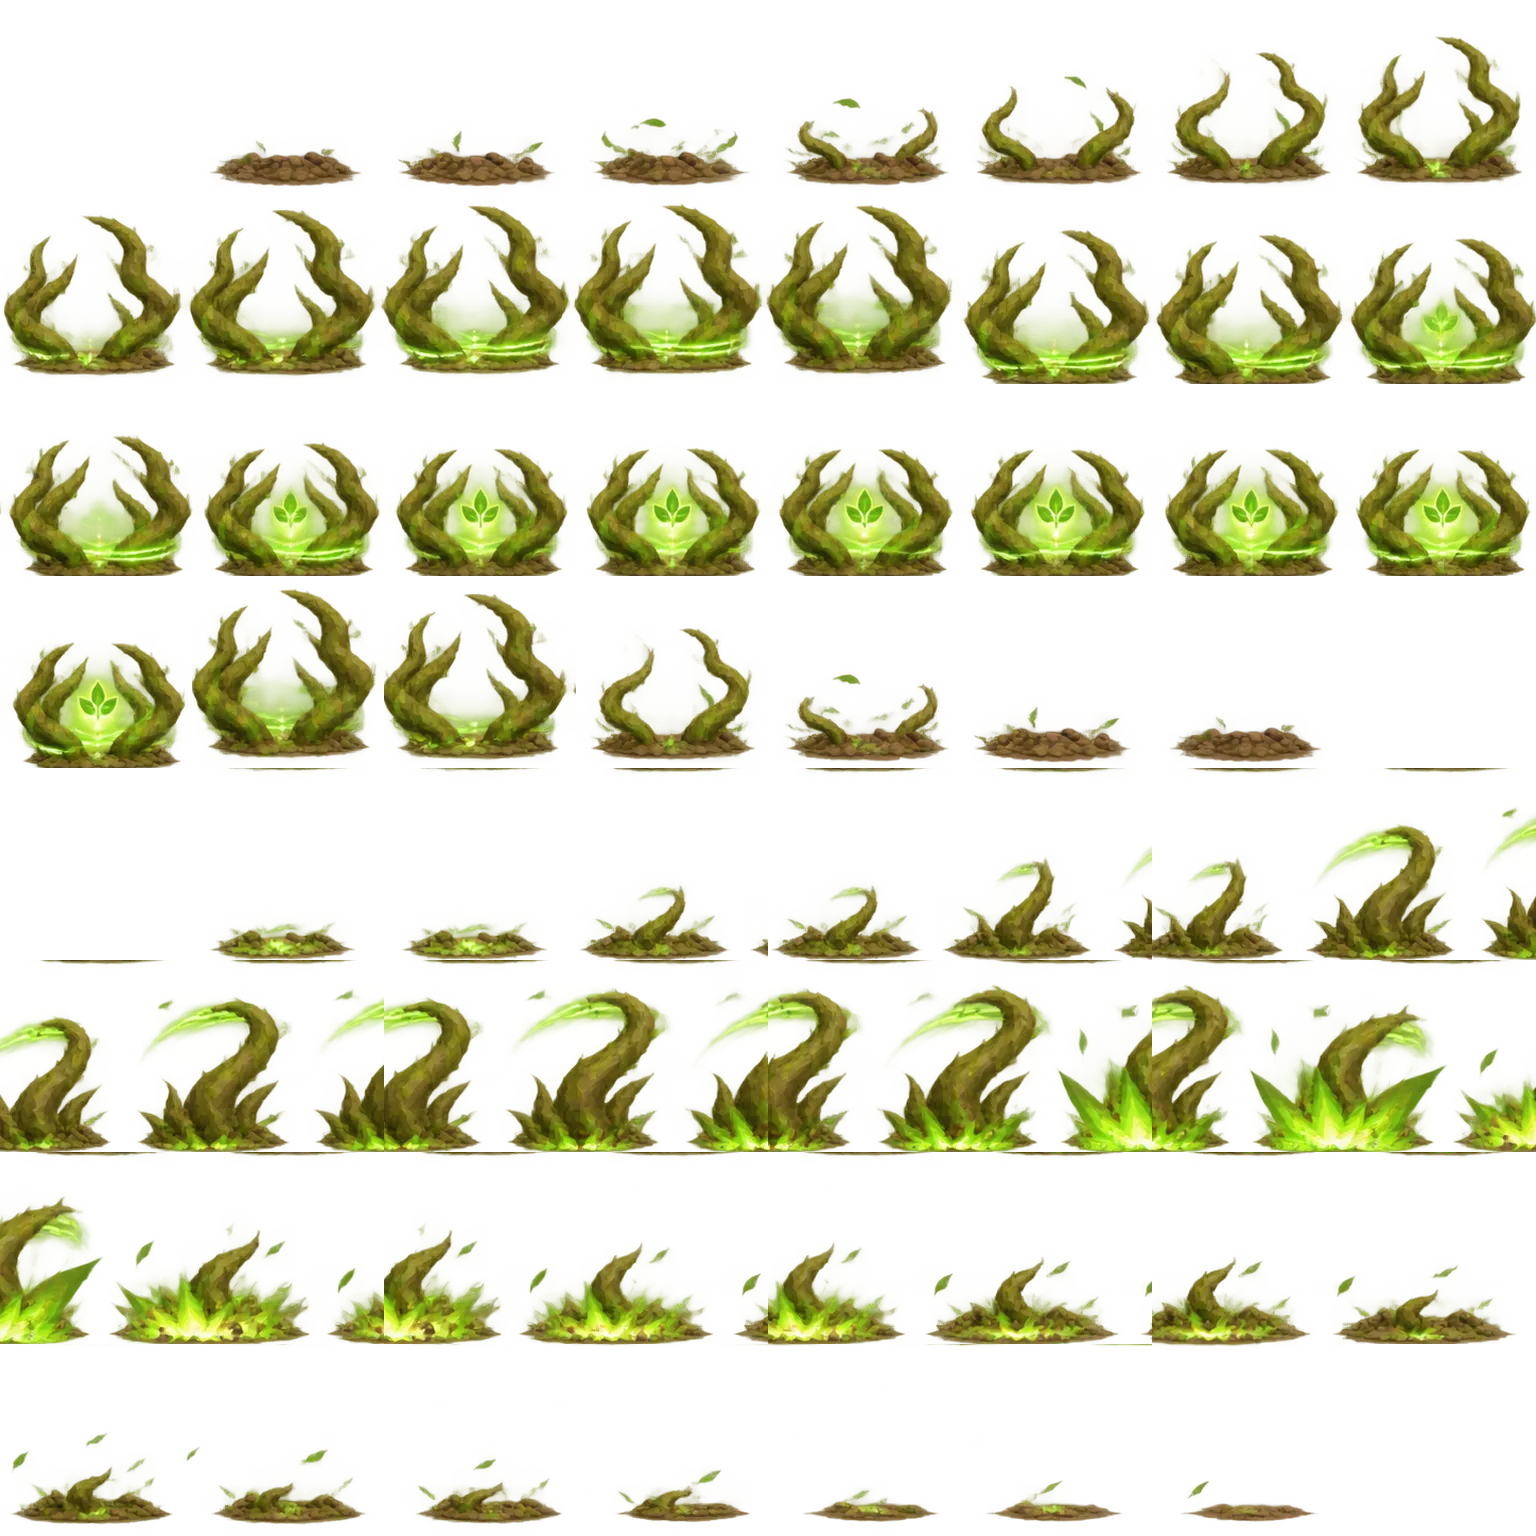
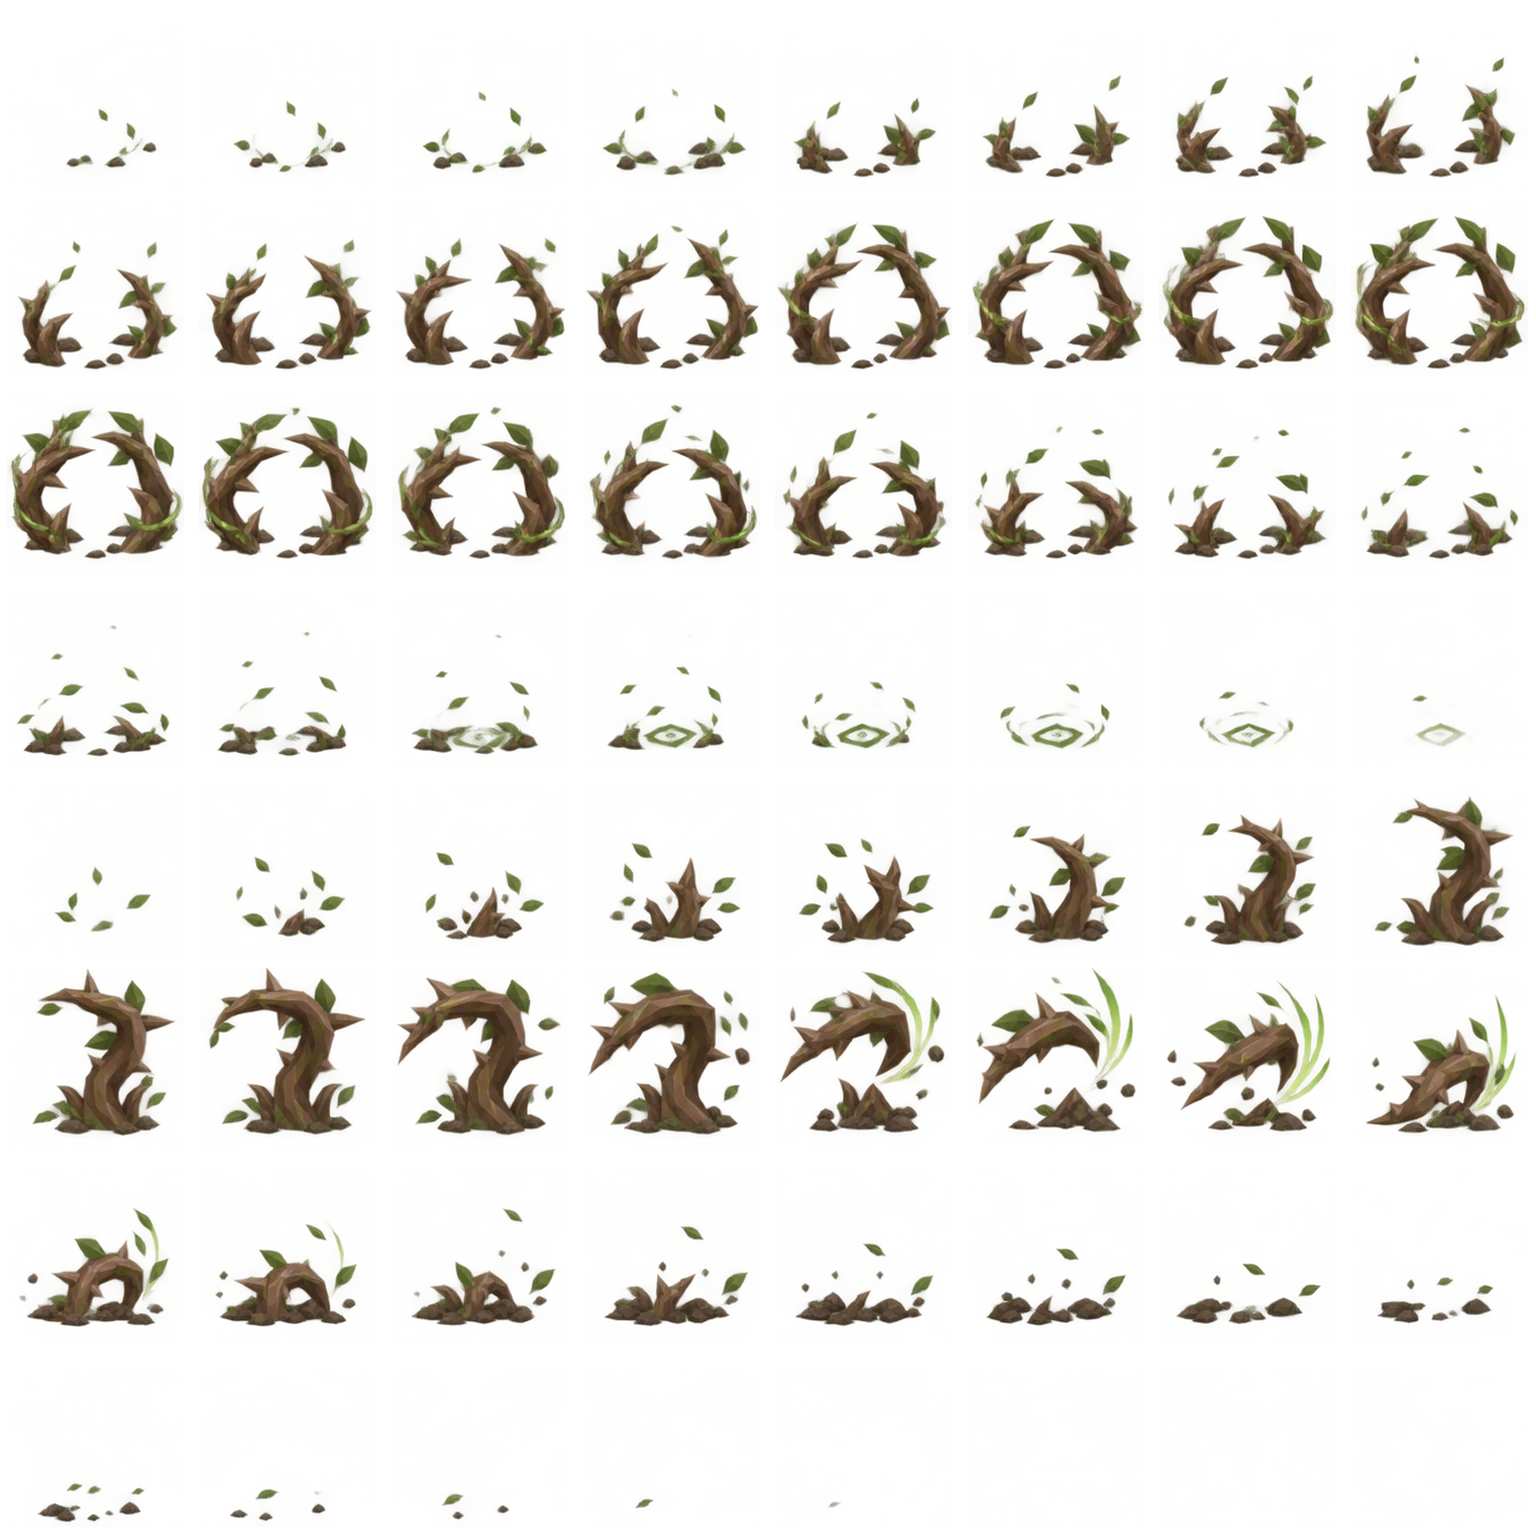
Replace Guardian Roots cast and retaliation with revised low-poly sprites

diff --git a/assets/guardian-roots.js b/assets/guardian-roots.js
@@ -1,7 +1,7 @@
-/* Guardian Roots: original illustrated transparent root atlas.
-   64 timeline slots (32 cast, 32 retaliation), arranged in 8x8 cells.
-   Source art contains 48 poses; held/reversed poses complete both timelines.
-   No character or arena background is baked into any frame. */
+/* Guardian Roots: revised hand-illustrated low-poly root atlas.
+   64 timeline slots (32 cast, 32 retaliation), in 8x8 padded cells.
+   Source poses share a stable baseline and transparent backgrounds.
+   No characters, arena background, or dummy are baked into any frame. */
 (()=>{
 "use strict";
 const C=192,N=32,clamp=p=>Math.max(0,Math.min(1,p));
@@ -15,7 +15,7 @@ function ensure(){
  const timer=setTimeout(()=>{lastError="Guardian Roots artwork timed out";resolve(false);},12000);
  img.onload=()=>{clearTimeout(timer);if(!ready())lastError="Guardian Roots atlas dimensions invalid";resolve(ready());};
  img.onerror=()=>{clearTimeout(timer);lastError="Guardian Roots artwork failed to load";resolve(false);};
- img.src="./assets/guardian-roots-atlas.webp?v=1";
+ img.src="./assets/guardian-roots-atlas.webp?v=2";
  }).then(ok=>{if(ok)try{window.WIZARDRY_ARENA_TEST?.drawCardArts();}catch(e){}return ok;}).finally(()=>pending=null);
  return pending;
 }

diff --git a/arena.html b/arena.html
@@ -484,7 +484,7 @@ body[data-screen="home"][data-portal-view="home"] #portal{padding-bottom:calc(42
 <script src="./assets/killer-bees.js?v=2" defer></script>
 <script src="./assets/mother-nature.js?v=2" defer></script>
 <script src="./assets/photosynthesis.js?v=4" defer></script>
-<script src="./assets/guardian-roots.js?v=1" defer></script>
+<script src="./assets/guardian-roots.js?v=2" defer></script>
 <script src="./arena.js?v=0.354.37" defer></script>
 <script src="./assets/menu-music.js?v=0.341.0" defer></script>
 <script src="./assets/wizard-home-v135.js?v=0.346.0" defer></script>
